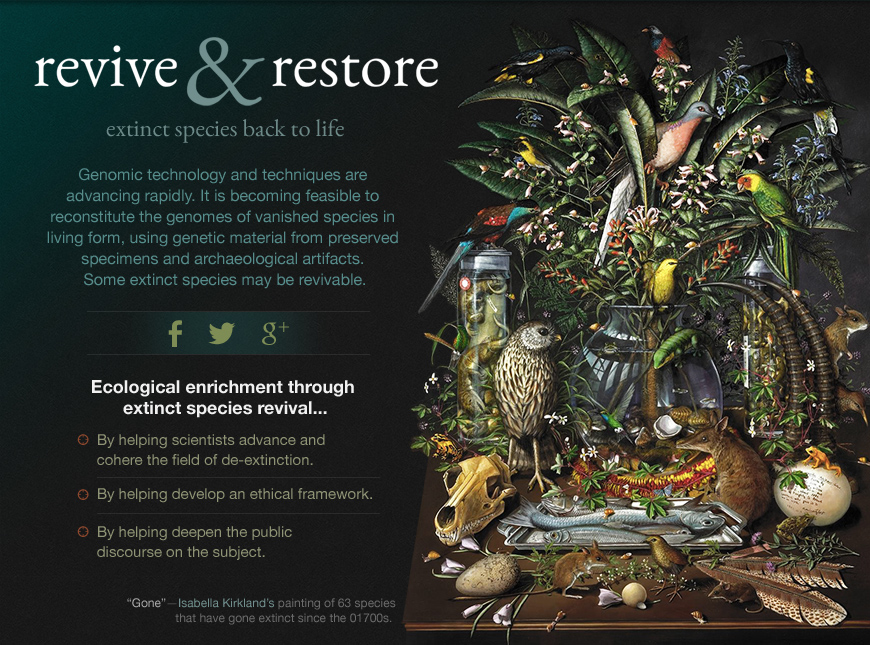
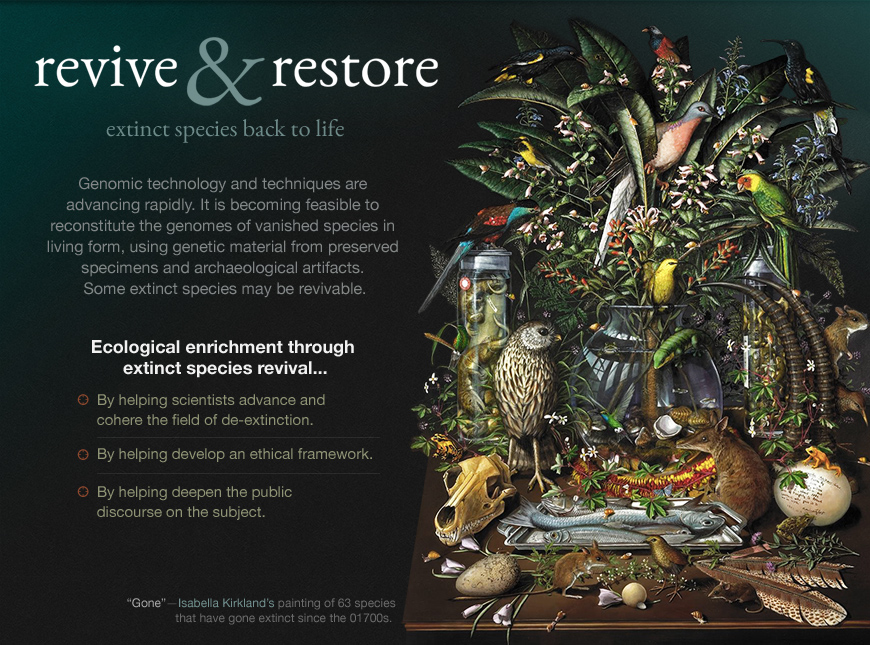
Updated both longphotos.

diff --git a/wordpress/wp-content/themes/rare/header.php b/wordpress/wp-content/themes/rare/header.php
@@ -169,9 +169,9 @@ $rare_theme_options = get_option ( 'rare_theme_options' );
                     }
                 </style>
 
-                <span class="lp-facebook"></span>
+                <!-- span class="lp-facebook"></span>
                 <span class="lp-twitter"></span>
-                <span class="lp-googleplus"></span>
+                <span class="lp-googleplus"></span -->
 
                 <span class="lp-isabella_link"></span>
                 <span class="lp-isabella_painting"></span>
